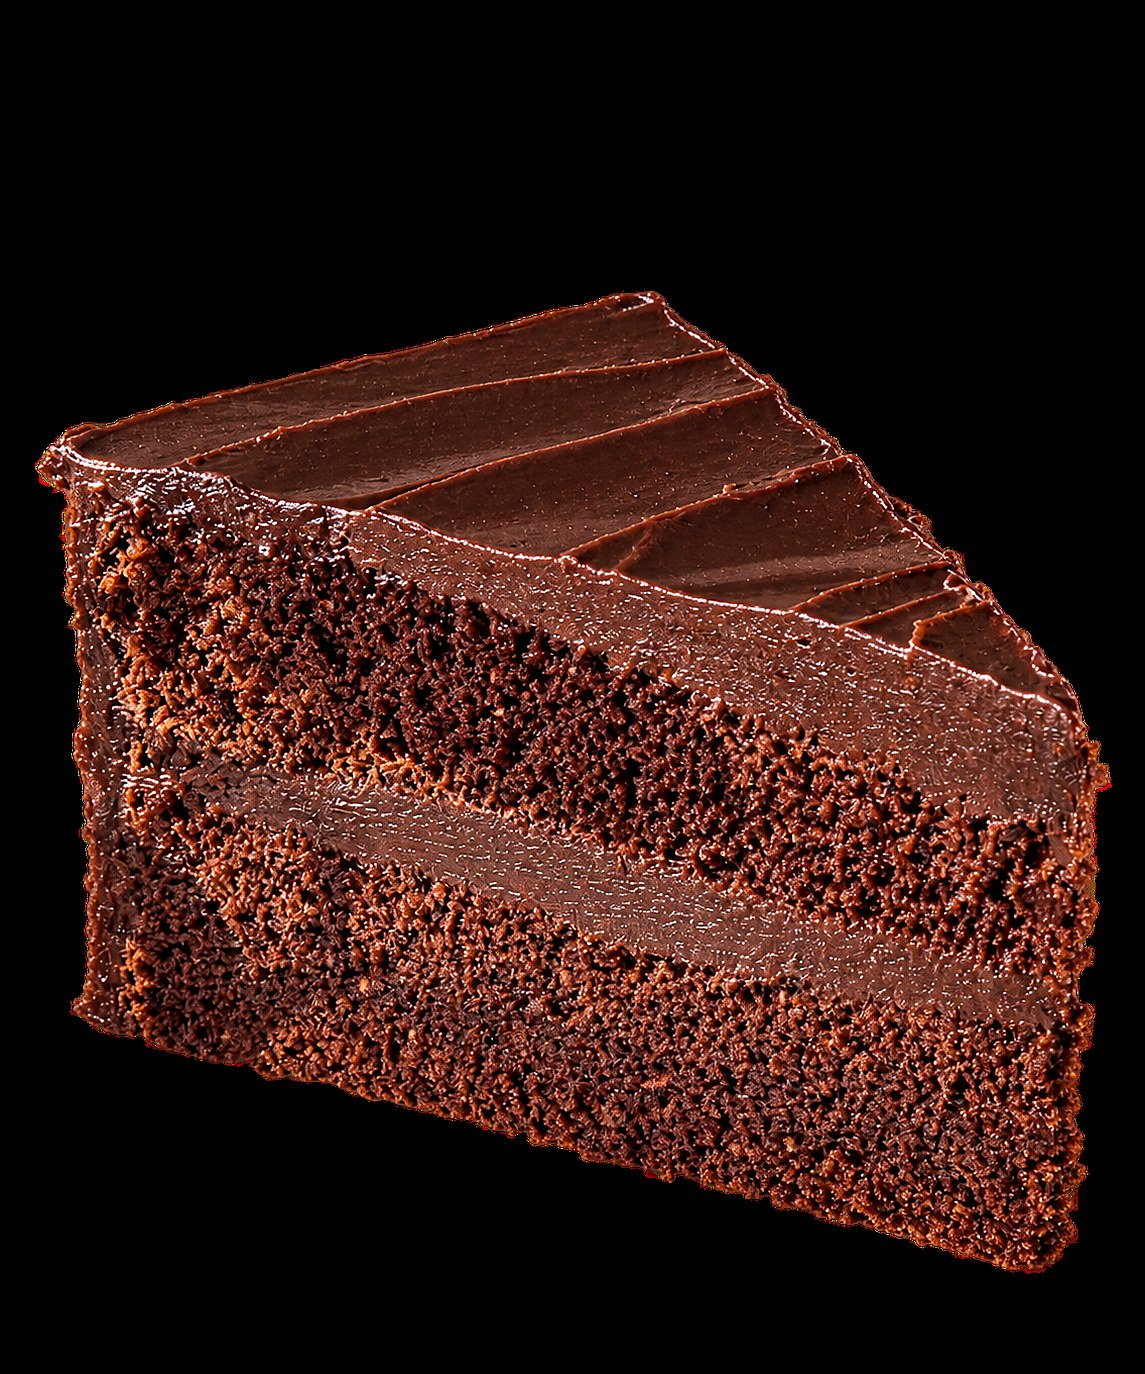
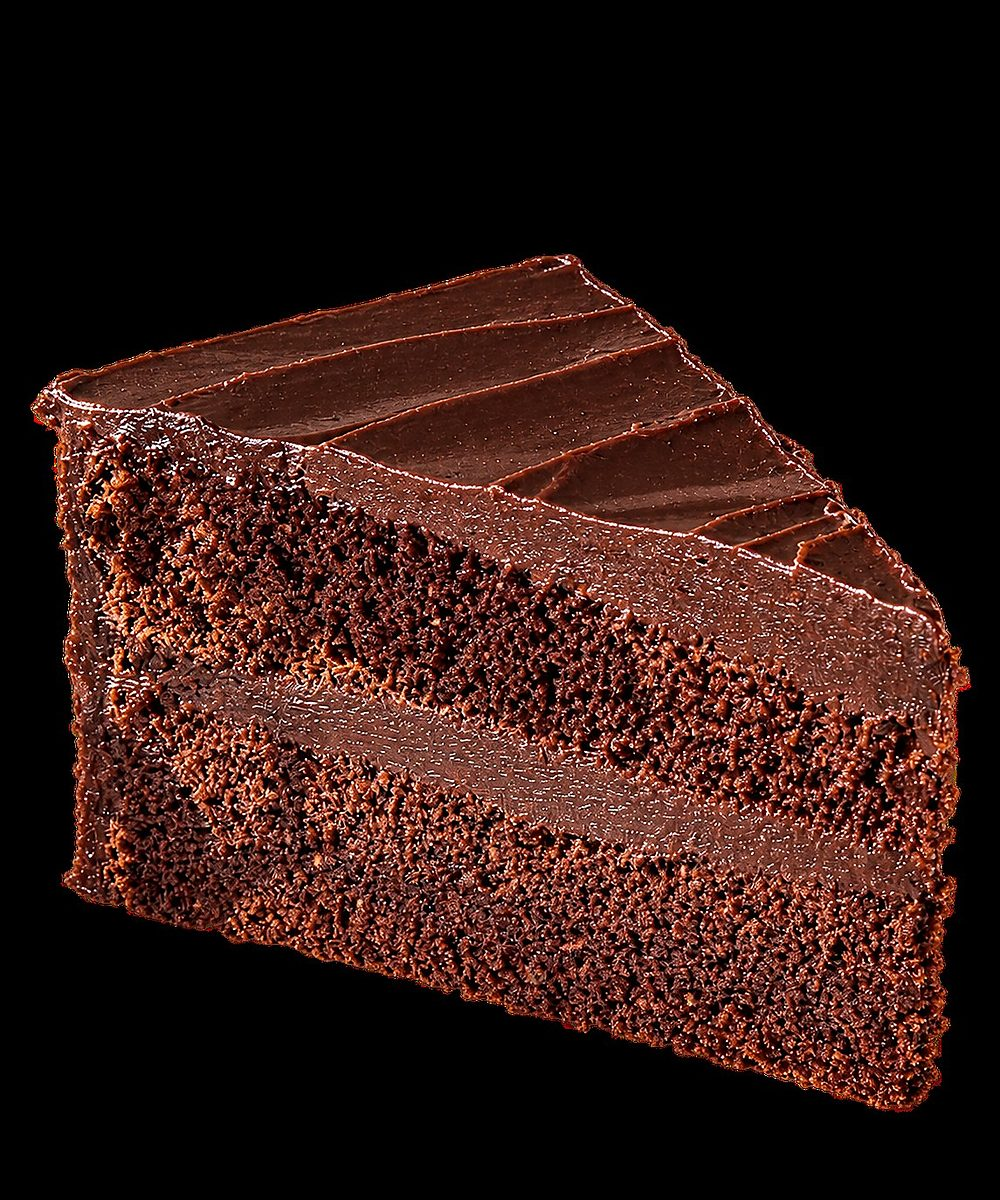
Reorder pastries first; compress images (5.16MB total)

diff --git a/app.js b/app.js
@@ -3,11 +3,11 @@
    --------------------------------------------------------------- */
 
 const GROUPS = [
+  { id: "pastries", name: "Cheesecakes & Pastries", meta: "Cheesecake & pastry" },
   { id: "milkshakes", name: "Milkshakes", meta: "Milkshake" },
   { id: "frappuccinos", name: "Frappuccinos", meta: "Frappuccino" },
   { id: "coffee", name: "Coffee", meta: "Coffee" },
-  { id: "other", name: "Other Beverages", meta: "Cold drink" },
-  { id: "pastries", name: "Cheesecakes & Pastries", meta: "Cheesecake & pastry" }
+  { id: "other", name: "Other Beverages", meta: "Cold drink" }
 ];
 
 const MENU = [
@@ -33,7 +33,7 @@ const MENU = [
 
   // Coffee
   { id: "iced-caramel-macchiato", name: "Iced Caramel Macchiato", price: 250, category: "coffee",
-    desc: "Cold milk, espresso poured over, and a caramel cross on top.", image: "images/Iced Caramel Macchiato.png" },
+    desc: "Cold milk, espresso poured over, and a caramel cross on top.", image: "images/Iced Caramel Macchiato.jpg" },
   { id: "iced-latte", name: "Iced Latte", price: 250, category: "coffee",
     desc: "Two shots of espresso over cold milk and clear ice.", image: "images/Iced Latte.jpg" },
   { id: "chocolate-cappuccino", name: "Chocolate Cappuccino", price: 250, category: "coffee",
@@ -51,9 +51,9 @@ const MENU = [
 
   // Cheesecakes & pastries
   { id: "san-sebastian-cheesecake", name: "San Sebastian Cheesecake", price: 400, category: "pastries",
-    desc: "Burnt on top, soft at the centre, cut cold.", image: "images/San Sebastian Cheesecake.png" },
+    desc: "Burnt on top, soft at the centre, cut cold.", image: "images/San Sebastian Cheesecake.jpg" },
   { id: "speculoos-lotus-cheesecake", name: "Speculoos (Lotus) Cheesecake", price: 450, category: "pastries",
-    desc: "Caramelised biscuit crust with a spiced lotus cream.", image: "images/Speculoos (Lotus) Cheesecake.png" },
+    desc: "Caramelised biscuit crust with a spiced lotus cream.", image: "images/Speculoos (Lotus) Cheesecake.jpg" },
   { id: "pistachio-cheesecake", name: "Pistachio Cheesecake", price: 450, category: "pastries",
     desc: "Roasted pistachio folded through a baked cheese base.", image: "images/Pistachio Cheesecake.jpg" },
   { id: "kinder-cheesecake", name: "Kinder Cheesecake", price: 400, category: "pastries",
@@ -61,7 +61,7 @@ const MENU = [
   { id: "strawberry-cheesecake", name: "Strawberry Cheesecake", price: 350, category: "pastries",
     desc: "A soft set cheesecake with strawberries on top.", image: "images/Strawberry Cheesecake.jpg" },
   { id: "oreo-cheesecake", name: "Oreo Cheesecake", price: 350, category: "pastries",
-    desc: "Crushed cookie base, vanilla cheese, and more cookie.", image: "images/Oreo Cheesecake.png" },
+    desc: "Crushed cookie base, vanilla cheese, and more cookie.", image: "images/Oreo Cheesecake.jpg" },
   { id: "coconut-cheesecake", name: "Coconut Cheesecake", price: 350, category: "pastries",
     desc: "Toasted coconut and a light, creamy cheese layer.", image: "images/Coconut Cheesecake.jpg" },
   { id: "blackberry-cheesecake", name: "Blackberry Cheesecake", price: 350, category: "pastries",
@@ -73,7 +73,7 @@ const MENU = [
   { id: "puddle-cake", name: "Puddle Cake", price: 350, category: "pastries",
     desc: "A small chocolate cake with a molten centre.", image: "images/Puddle Cake.jpg" },
   { id: "red-velvet-cake", name: "Red Velvet Cake", price: 350, category: "pastries",
-    desc: "Cocoa-red crumb with a thin cream cheese frosting.", image: "images/Red Velvet Cake.png" },
+    desc: "Cocoa-red crumb with a thin cream cheese frosting.", image: "images/Red Velvet Cake.jpg" },
   { id: "tiramisu", name: "Tiramisu", price: 350, category: "pastries",
     desc: "Espresso-soaked sponge under mascarpone cream.", image: "images/Tiramisu.jpg" },
   { id: "trilece", name: "Trileçe", price: 300, category: "pastries",

diff --git a/app-ar.js b/app-ar.js
@@ -33,7 +33,7 @@ const MENU = [
 
   // Coffee
   { id: "iced-caramel-macchiato", name: "ماكياتو كراميل بارد", price: 250, category: "coffee",
-    desc: "Cold milk, espresso poured over, and a caramel cross on top.", image: "images/Iced Caramel Macchiato.png" },
+    desc: "Cold milk, espresso poured over, and a caramel cross on top.", image: "images/Iced Caramel Macchiato.jpg" },
   { id: "iced-latte", name: "لاتيه بارد", price: 250, category: "coffee",
     desc: "Two shots of espresso over cold milk and clear ice.", image: "images/Iced Latte.jpg" },
   { id: "chocolate-cappuccino", name: "كابتشينو شوكولاتة", price: 250, category: "coffee",
@@ -51,9 +51,9 @@ const MENU = [
 
   // Cheesecakes & pastries
   { id: "san-sebastian-cheesecake", name: "تشيز كيك سان سيباستيان", price: 400, category: "pastries",
-    desc: "محروق من الأعلى، ناعم في المركز، يُقطع بارداً.", image: "images/San Sebastian Cheesecake.png" },
+    desc: "محروق من الأعلى، ناعم في المركز، يُقطع بارداً.", image: "images/San Sebastian Cheesecake.jpg" },
   { id: "speculoos-lotus-cheesecake", name: "تشيز كيك سبيكولوس (لوتس)", price: 450, category: "pastries",
-    desc: "قاعدة بسكويت كراميل مع كريمة لوتس مبهرة.", image: "images/Speculoos (Lotus) Cheesecake.png" },
+    desc: "قاعدة بسكويت كراميل مع كريمة لوتس مبهرة.", image: "images/Speculoos (Lotus) Cheesecake.jpg" },
   { id: "pistachio-cheesecake", name: "تشيز كيك فستق", price: 450, category: "pastries",
     desc: "فستق محمص مطوي في قاعدة جبن مخبوزة.", image: "images/Pistachio Cheesecake.jpg" },
   { id: "kinder-cheesecake", name: "تشيز كيك كيندر", price: 400, category: "pastries",
@@ -61,7 +61,7 @@ const MENU = [
   { id: "strawberry-cheesecake", name: "تشيز كيك فراولة", price: 350, category: "pastries",
     desc: "تشيز كيك طري مع فراولة على الوجه.", image: "images/Strawberry Cheesecake.jpg" },
   { id: "oreo-cheesecake", name: "تشيز كيك أوريو", price: 350, category: "pastries",
-    desc: "قاعدة بسكويت مسحوق، جبن فانيليا، والمزيد من البسكويت.", image: "images/Oreo Cheesecake.png" },
+    desc: "قاعدة بسكويت مسحوق، جبن فانيليا، والمزيد من البسكويت.", image: "images/Oreo Cheesecake.jpg" },
   { id: "coconut-cheesecake", name: "تشيز كيك جوز الهند", price: 350, category: "pastries",
     desc: "جوز هند محمص وطبقة جبن خفيفة وكريمية.", image: "images/Coconut Cheesecake.jpg" },
   { id: "blackberry-cheesecake", name: "تشيز كيك توت أسود", price: 350, category: "pastries",
@@ -73,7 +73,7 @@ const MENU = [
   { id: "puddle-cake", name: "كعكة بودل", price: 350, category: "pastries",
     desc: "كعكة شوكولاتة صغيرة مع مركز منصهر.", image: "images/Puddle Cake.jpg" },
   { id: "red-velvet-cake", name: "كعكة رد فلفت", price: 350, category: "pastries",
-    desc: "فتات كاكاو-أحمر مع طبقة رقيقة من كريمة الجبن.", image: "images/Red Velvet Cake.png" },
+    desc: "فتات كاكاو-أحمر مع طبقة رقيقة من كريمة الجبن.", image: "images/Red Velvet Cake.jpg" },
   { id: "tiramisu", name: "تيراميسو", price: 350, category: "pastries",
     desc: "إسفنج منقوع في إسبريسو تحت كريمة ماسكاربوني.", image: "images/Tiramisu.jpg" },
   { id: "trilece", name: "تريليش", price: 300, category: "pastries",

diff --git a/index.html b/index.html
@@ -173,11 +173,11 @@
           </div>
           <div class="filters" role="group" aria-label="Filter the menu">
             <button class="filter" type="button" data-filter="all" aria-pressed="true">All</button>
+            <button class="filter" type="button" data-filter="pastries" aria-pressed="false">Cheesecakes</button>
             <button class="filter" type="button" data-filter="milkshakes" aria-pressed="false">Milkshakes</button>
             <button class="filter" type="button" data-filter="frappuccinos" aria-pressed="false">Frappuccinos</button>
             <button class="filter" type="button" data-filter="coffee" aria-pressed="false">Coffee</button>
             <button class="filter" type="button" data-filter="other" aria-pressed="false">Other drinks</button>
-            <button class="filter" type="button" data-filter="pastries" aria-pressed="false">Cheesecakes</button>
           </div>
         </div>
 
